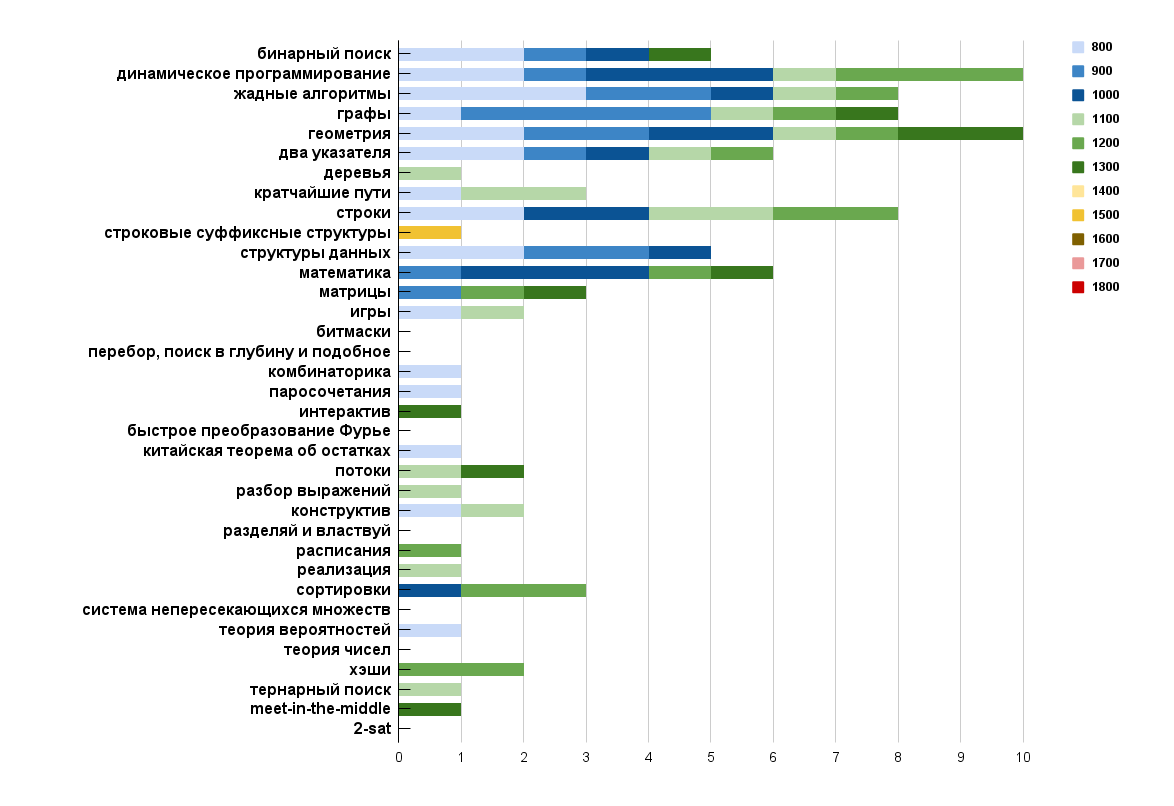
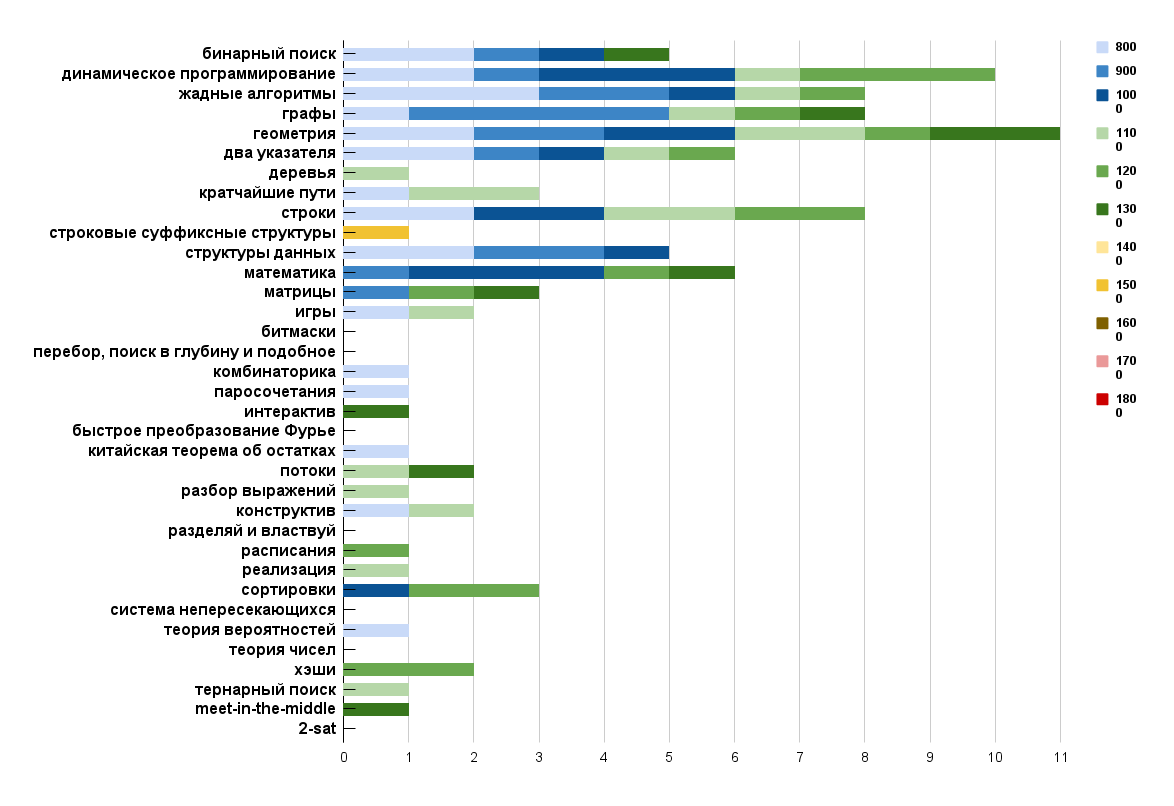
Solve 1100 in geometry.

diff --git a/kotlin/CodeforcesArchive/src/main/kotlin/geometry/compl_1100/1850E_Cartboard_for_pictures.kt b/kotlin/CodeforcesArchive/src/main/kotlin/geometry/compl_1100/1850E_Cartboard_for_pictures.kt
@@ -1,0 +1,27 @@
+package geometry.compl_1100
+
+
+fun main(){
+    var T = readln().toInt()
+    while (T > 0){
+        val (n, C) = readln().split(" ").map {it.toLong()}
+        val s = readln().split(" ").map {it.toLong()}
+        val a = java.math.BigInteger.valueOf(4L * n)
+        val b = java.math.BigInteger.valueOf(4L * s.sum())
+        var sumOfSqr = 0L
+        s.forEach { sumOfSqr += it * it }
+        val c = java.math.BigInteger.valueOf(sumOfSqr - C)
+        val discr = b * b - java.math.BigInteger.valueOf(4) * a * c
+        if (discr == java.math.BigInteger.valueOf(0)){
+            println(-b / (java.math.BigInteger.valueOf(2) * a))
+
+        }
+        else {
+            val w1 = (-b - discr.sqrt()) / (java.math.BigInteger.valueOf(2) * a)
+            val w2 = (-b + discr.sqrt()) / (java.math.BigInteger.valueOf(2) * a)
+            println(kotlin.math.max(w1.toLong(), w2.toLong()))
+        }
+
+        --T
+    }
+}
